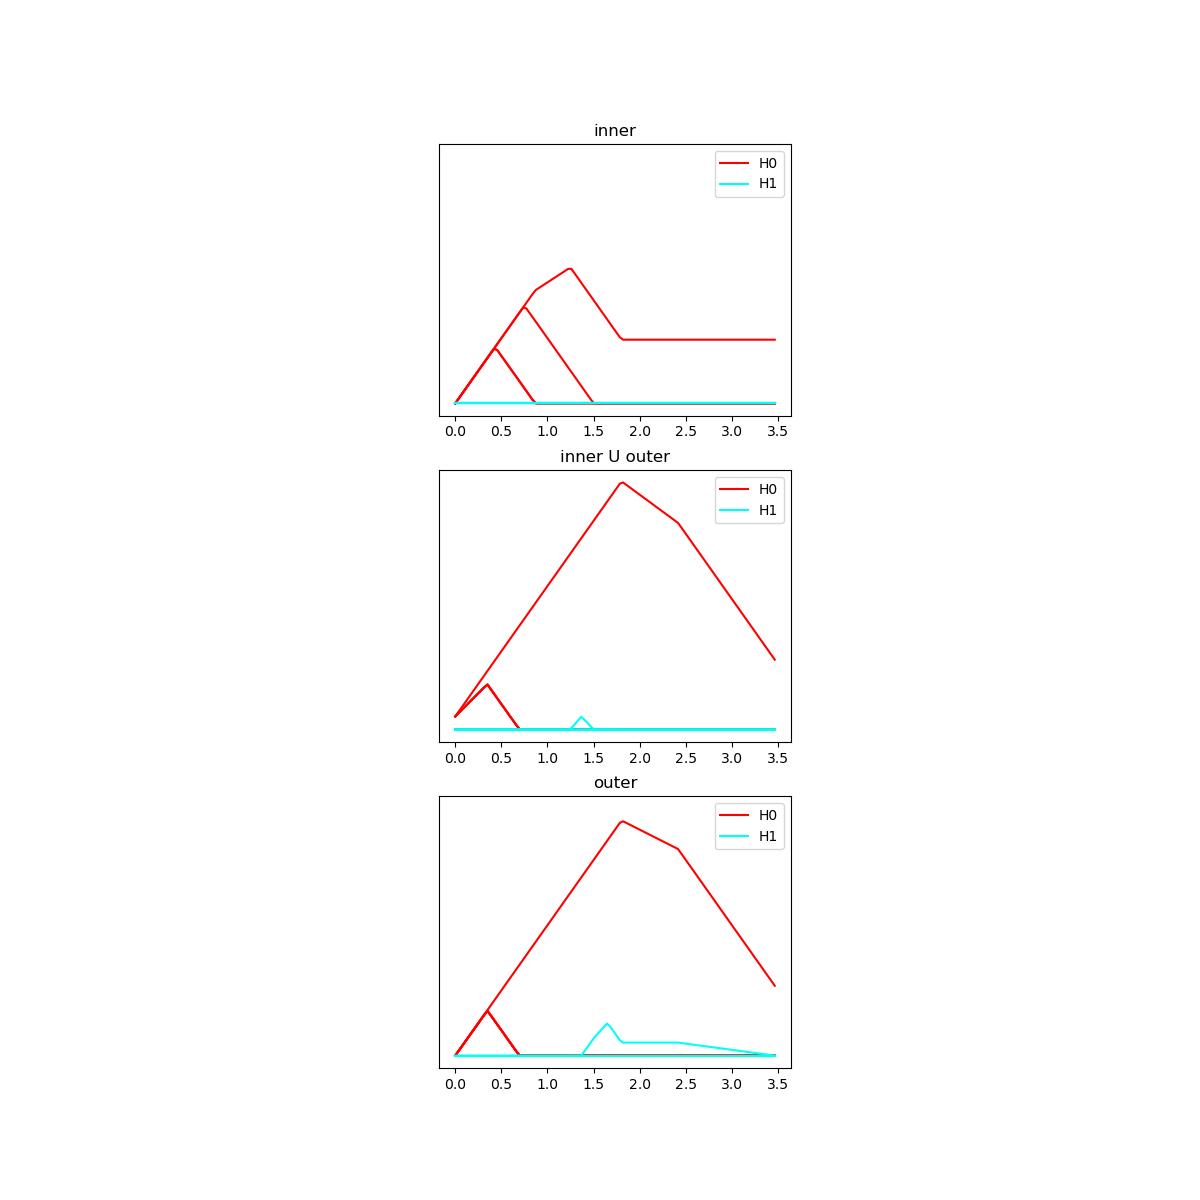
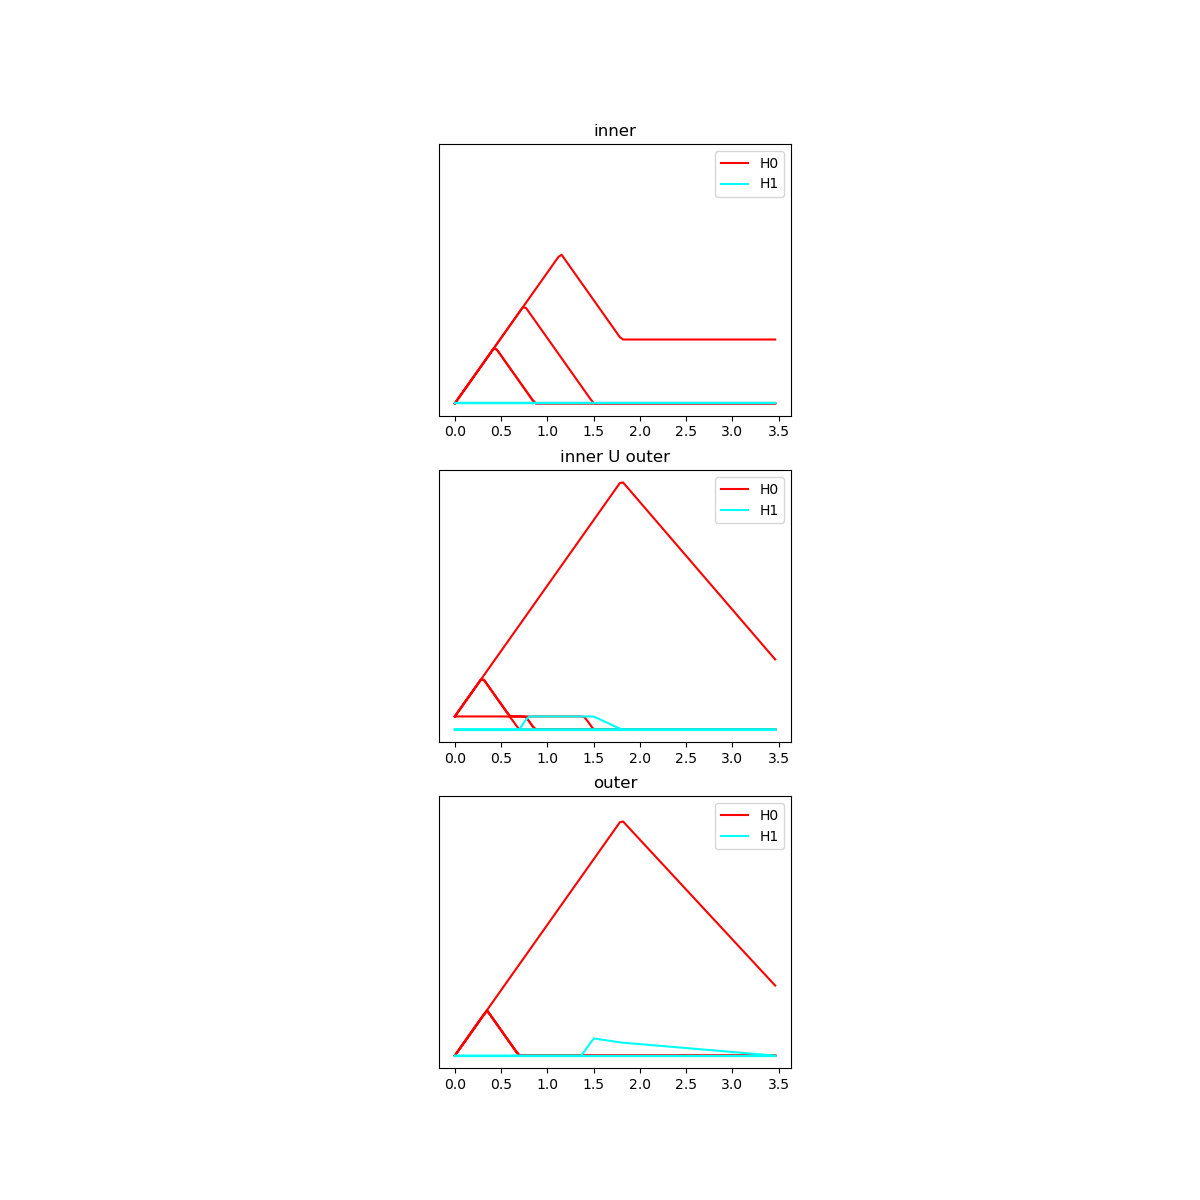
Updated scripts to use new algorithm

diff --git a/scripts/two_ring_demo.py b/scripts/two_ring_demo.py
@@ -4,7 +4,7 @@ import xarray as xr
 
 from classwise_tda import poset_landscapes, visualization
 
-SAMPLING_RATIO = 5
+SAMPLING_RATIO = 2
 
 ds = xr.open_dataset("/nfs/home/lverho/classwise_tda/data/two_ring_synth_dataset.nc")
 
@@ -20,8 +20,8 @@ B_slice = slice(
     ),
 )
 weights = {
-    (("inner",), ("inner", "outer")): 0.0,
-    (("outer",), ("inner", "outer")): 0.0,
+    (("inner",), ("inner", "outer")): 0.5,
+    (("outer",), ("inner", "outer")): 0.5,
 }
 poset_graph, inclusion_graph = poset_landscapes.compute_classwise_landscape_poset(
     data_points=unified_points.values,
@@ -29,13 +29,12 @@ poset_graph, inclusion_graph = poset_landscapes.compute_classwise_landscape_pose
     class_weights=weights,
     homology_coeff_field=2,
     return_inclusion_graph=True,
+    output_landscape_resolution=98,
     path_landscape_resolution=100000,
 )
 
-landscape_array = poset_landscapes.create_poset_landscape_array(poset_graph, 100)
+landscape_array = poset_landscapes.create_poset_landscape_array(poset_graph)
 
 F, ax = visualization.plot_all_landscapes(landscape_array, grid_layout=(3, 1))
 
-F.savefig(
-    "/nfs/home/lverho/classwise_tda/figures/inner_outer_ring_landscapes_weight_0.png"
-)
+F.savefig("/nfs/home/lverho/classwise_tda/figures/two_ring_landscapes_weight_0.5.png")

diff --git a/scripts/simple_circle_demo.py b/scripts/simple_circle_demo.py
@@ -41,10 +41,11 @@ poset_graph, inclusion_graph = poset_landscapes.compute_classwise_landscape_pose
     class_weights=weights,
     homology_coeff_field=2,
     return_inclusion_graph=True,
+    output_landscape_resolution=98,
     path_landscape_resolution=1000,
 )
 
-landscape_array = poset_landscapes.create_poset_landscape_array(poset_graph, 100)
+landscape_array = poset_landscapes.create_poset_landscape_array(poset_graph)
 
 F, ax = visualization.plot_all_landscapes(landscape_array, grid_layout=(3, 1))
 

diff --git a/scripts/small_demo.py b/scripts/small_demo.py
@@ -28,10 +28,11 @@ poset_graph, inclusion_graph = poset_landscapes.compute_classwise_landscape_pose
     class_weights=weights,
     homology_coeff_field=2,
     return_inclusion_graph=True,
+    output_landscape_resolution=48,
     path_landscape_resolution=1000,
 )
 
-landscape_array = poset_landscapes.create_poset_landscape_array(poset_graph, 100)
+landscape_array = poset_landscapes.create_poset_landscape_array(poset_graph)
 
 F, ax = visualization.plot_all_landscapes(landscape_array, grid_layout=(3, 1))
 

diff --git a/scripts/two_half_rings_demo.py b/scripts/two_half_rings_demo.py
@@ -29,10 +29,11 @@ poset_graph, inclusion_graph = poset_landscapes.compute_classwise_landscape_pose
     class_weights=weights,
     homology_coeff_field=2,
     return_inclusion_graph=True,
+    output_landscape_resolution=98,
     path_landscape_resolution=1000,
 )
 
-landscape_array = poset_landscapes.create_poset_landscape_array(poset_graph, 100)
+landscape_array = poset_landscapes.create_poset_landscape_array(poset_graph)
 
 F, ax = visualization.plot_all_landscapes(landscape_array, grid_layout=(3, 1))
 

diff --git a/scripts/single_disc_demo.py b/scripts/single_disc_demo.py
@@ -22,7 +22,7 @@ poset_graph, inclusion_graph = poset_landscapes.compute_classwise_landscape_pose
     path_landscape_resolution=1000,
 )
 
-landscape_array = poset_landscapes.create_poset_landscape_array(poset_graph, 100)
+landscape_array = poset_landscapes.create_poset_landscape_array(poset_graph)
 
 F, ax = visualization.plot_all_landscapes(landscape_array, grid_layout=(1, 1))
 

diff --git a/scripts/single_ring_demo.py b/scripts/single_ring_demo.py
@@ -22,7 +22,7 @@ poset_graph, inclusion_graph = poset_landscapes.compute_classwise_landscape_pose
     path_landscape_resolution=1000,
 )
 
-landscape_array = poset_landscapes.create_poset_landscape_array(poset_graph, 100)
+landscape_array = poset_landscapes.create_poset_landscape_array(poset_graph)
 
 F, ax = visualization.plot_all_landscapes(landscape_array, grid_layout=(1, 1))
 

diff --git a/scripts/two_mixed_rings_demo.py b/scripts/two_mixed_rings_demo.py
@@ -32,7 +32,7 @@ poset_graph, inclusion_graph = poset_landscapes.compute_classwise_landscape_pose
     path_landscape_resolution=1000,
 )
 
-landscape_array = poset_landscapes.create_poset_landscape_array(poset_graph, 100)
+landscape_array = poset_landscapes.create_poset_landscape_array(poset_graph)
 
 F, ax = visualization.plot_all_landscapes(landscape_array, grid_layout=(3, 1))
 
